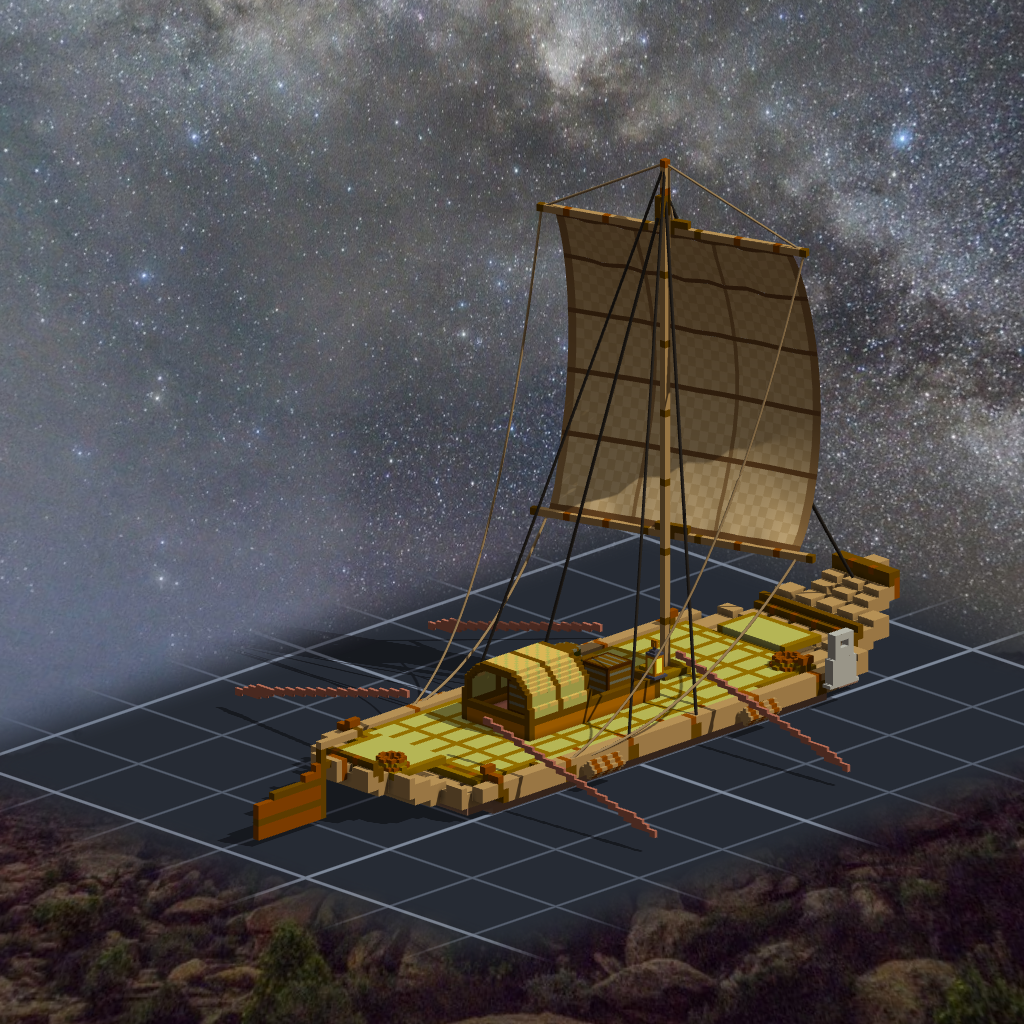
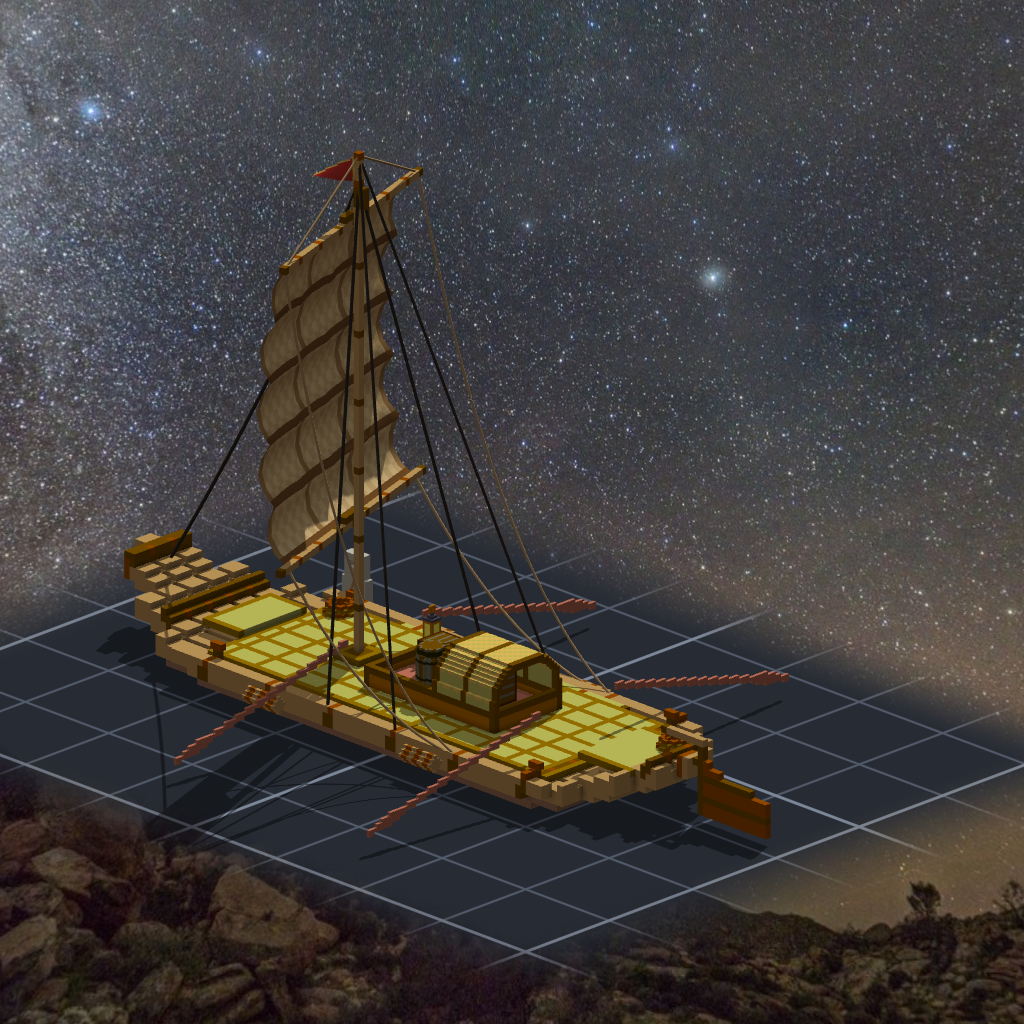
feat(tekpai): 套用四竹篾五節硬骨帆（battens=4、60x60 對齊貼圖）

diff --git a/works/pinnacle-tekpai-01m/design/draft_rigging.py b/works/pinnacle-tekpai-01m/design/draft_rigging.py
@@ -19,17 +19,17 @@ sys.stdout.reconfigure(encoding='utf-8')
 
 
 def make_sail_mat_png(out_png):
-    """64x64 像素畫：傳統台灣草蓆編紋＋水平竹骨壓條＋邊繩加固。"""
+    """60x60 像素畫：傳統台灣草蓆編紋＋4 道水平竹骨壓條（準對 5 格篷葉 v=0.2/0.4/0.6/0.8）＋邊繩加固。"""
     os.makedirs(os.path.dirname(out_png), exist_ok=True)
-    img = Image.new('RGBA', (64, 64), (214, 184, 126, 255))
+    img = Image.new('RGBA', (60, 60), (214, 184, 126, 255))
     px = img.load()
-    for y in range(64):
-        for x in range(64):
-            # 水平竹片壓骨（每 11 px 一道，頂/底各一道）
-            if y in (0, 1, 12, 24, 36, 48, 62, 63):
+    for y in range(60):
+        for x in range(60):
+            # 水平竹片壓骨（4 道內竹骨對齊 v=0.2,0.4,0.6,0.8 即 y=11..12,23..24,35..36,47..48；頂底邊框各一道）
+            if y in (0, 1, 11, 12, 23, 24, 35, 36, 47, 48, 58, 59):
                 px[x, y] = (118, 78, 36, 255)
             # 垂直拼蓆縫線（三幅併縫）
-            elif x in (0, 1, 21, 42, 62, 63):
+            elif x in (0, 1, 19, 20, 39, 40, 58, 59):
                 px[x, y] = (158, 120, 68, 255)
             # 交錯編織細紋
             elif ((x // 2 + y // 2) % 2) == 0:
@@ -169,7 +169,7 @@ def main():
 
         # 5. Apply sail & rope meta TSV
         meta_lines = []
-        meta_lines.append('sail\tmain\t' + json.dumps({'kind': 'sail', 'mast': 'main', 'sail': 'course', 'set': 1}, ensure_ascii=False))
+        meta_lines.append('sail\tmain\t' + json.dumps({'kind': 'sail', 'mast': 'main', 'sail': 'course', 'set': 1, 'battens': 4}, ensure_ascii=False))
         meta_lines.append('sail\tpennant\t' + json.dumps({'kind': 'flag', 'mast': 'main', 'flag': 'pennant', 'nation': 'none'}, ensure_ascii=False))
         for rname, *_rest, rmeta in ropes:
             meta_lines.append('rope\t' + rname + '\t' + json.dumps(rmeta, ensure_ascii=False))
